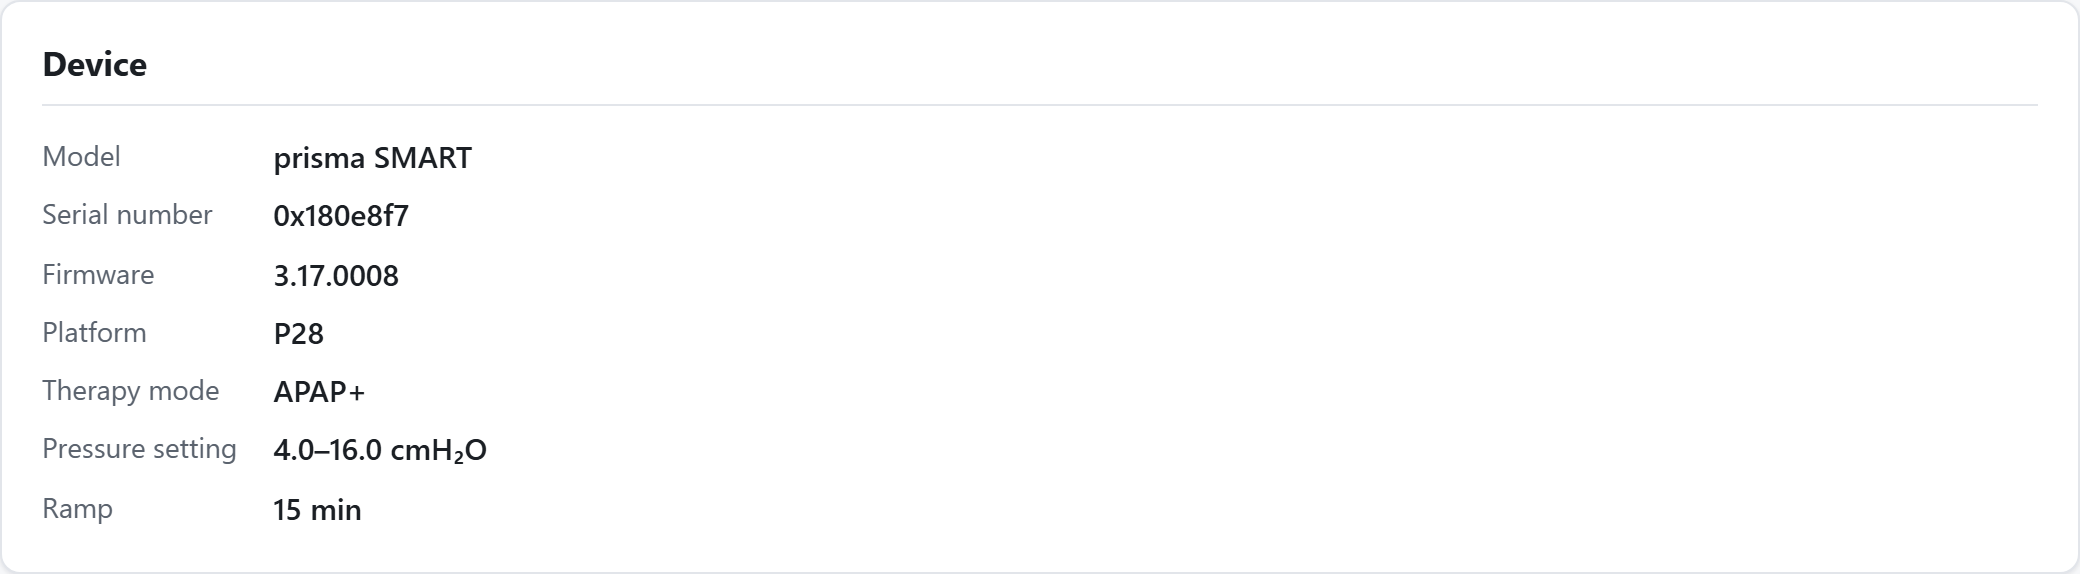
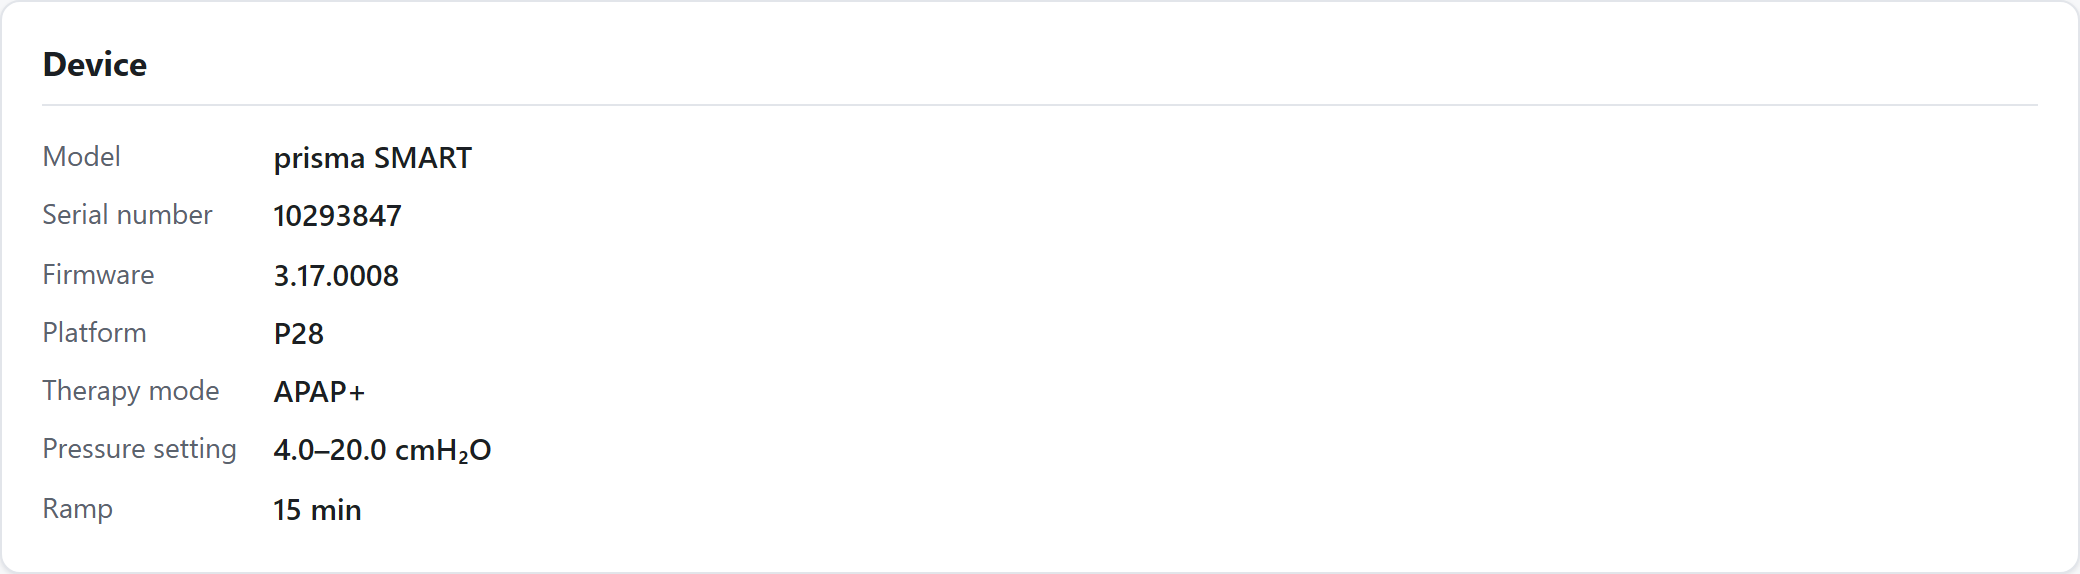
README: document Withings import and device figures; regenerate screenshots
The README predated the Withings sleep import and the device's own
figures. Correct the privacy statement, test count, file list, chart list,
psstat field map and day-boundary notes, and add a section on the
optional Withings import.

Screenshots are regenerated from a fresh synthetic card, with a new image
of the sleep charts.

diff --git a/README.md b/README.md
@@ -9,7 +9,7 @@ honest account of how every number was derived. In Hebrew and English.
 
 [![No build step](https://img.shields.io/badge/build-none-success)](#running-it)
 [![Dependencies](https://img.shields.io/badge/dependencies-0-success)](#running-it)
-[![Tests](https://img.shields.io/badge/self--tests-83%20passing-success)](#tests)
+[![Tests](https://img.shields.io/badge/self--tests-98%20passing-success)](#tests)
 [![Privacy](https://img.shields.io/badge/data-never%20leaves%20your%20device-blue)](#privacy)
 [![Languages](https://img.shields.io/badge/languages-עברית%20%7C%20English-blue)](#language)
 
@@ -27,13 +27,19 @@ Your card is read in the browser and never uploaded.
 ## What it looks like
 
 <div align="center">
-  <img src="screenshots/02-overview.png" alt="Overview panel: average AHI 6.7 in the mild band, 6.7 h average use, 100% of nights at 4 h or more, 14 nights analysed, 93 h total therapy time, RDI 9.1, and a donut breaking 771 recorded events into obstructive apnea, central apnea, hypopnea and RERA" width="900">
+  <img src="screenshots/02-overview.png" alt="Overview panel: average AHI 6.7 in the mild band, 6.2 h average use, 100% of nights at 4 h or more, 18 nights analysed, 112 h total therapy time, RDI 9.2; the device's own AHI of 7/h, P90 pressure of 10.0 cmH2O and deep-sleep indicator of 79 min; and a donut breaking 805 recorded events into obstructive apnea, central apnea, hypopnea and RERA" width="900">
 </div>
 
 Six headline figures, each colour-banded against its own benchmark, with the
-event mix beside them. Nothing here is read off the device's own display — every
+event mix beside them. None of these is read off the device's own display — every
 index is recomputed from the event records, for reasons explained in
 [How the numbers are computed](#how-the-numbers-are-computed).
+
+Beside them, three further cards show **the device's own figures** — its AHI,
+P90 pressure, share of time in high leak, and deep-sleep indicator — computed
+from `statistic.psstat` the way the manufacturer's prisma JOURNAL viewer
+computes them. They are always labelled as the device's, so a reader comparing
+against JOURNAL finds the same numbers, and can see where ours differ.
 
 ### Findings written for a person, not a technician
 
@@ -177,13 +183,30 @@ by event count. Exactly one of the first four fires.
 Rows with `—` in the Tier column are structural or arithmetic observations
 rather than threshold judgements, so they carry no provenance badge.
 
-### Five trend charts, drawn without a chart library
+### Trend charts, drawn without a chart library
 
 <div align="center">
-  <img src="screenshots/04-charts.png" alt="Five charts: AHI per night against the threshold of 5, hours of use against the 4-hour benchmark, a sleep-timing candle chart, stacked event composition, and 95th-percentile pressure" width="900">
+  <img src="screenshots/04-charts.png" alt="Seven charts: AHI per night against the threshold of 5 with the device's AHI as a tick, hours of use against the 4-hour benchmark, a sleep-timing candle chart, stacked event composition, our P95 pressure beside the device's P90, the device's deep-sleep minutes, and the device's share of time in high leak" width="900">
 </div>
 
-Every chart is hand-built inline SVG. Some details worth pointing out:
+Every chart is hand-built inline SVG:
+
+| Chart | Shows |
+|---|---|
+| AHI by night | our AHI against the threshold of 5, with a tick for the device's own AHI |
+| Hours of use by night | therapy time against the 4-hour benchmark |
+| Sleep timing by night | a candle per night — time in bed and therapy time inside it |
+| Event composition | stacked event types per night |
+| Pressure | our P95 from the event records beside the device's P90 from its histogram |
+| Deep sleep indicator *(device)* | minutes the machine estimated as deep sleep |
+| Time in high leak *(device)* | share of the night in the device's high-leak range |
+
+With [Withings sleep data](#optional-sleep-stages-from-a-withings-device)
+loaded, the usage chart gains a sleep bar per night, the timing chart gains a
+grey band for the time you were actually asleep, and the deep-sleep chart
+becomes a two-panel chart comparing the device's estimate with the watch's.
+
+Some details worth pointing out:
 
 - **Missing nights stay missing.** 30 August has no therapy, and it renders as a
   visible gap rather than two bars sliding together to hide it.
@@ -198,8 +221,13 @@ Every chart is hand-built inline SVG. Some details worth pointing out:
 ### Night by night, down to the waveform
 
 <div align="center">
-  <img src="screenshots/05-nights.png" alt="Sortable night table with one row expanded, showing the night's sessions, a decoded RespFlow waveform, an event breakdown, and the twelve recorded channels as chips" width="900">
+  <img src="screenshots/05-nights.png" alt="Night table with the device's AHI, P90 and deep-sleep columns beside ours, four summary-only nights at the top, and one row expanded to show its session, a decoded RespFlow waveform, an event breakdown, and the twelve recorded channels as chips" width="900">
 </div>
+
+The table puts the device's AHI, P90 pressure and deep-sleep minutes in columns
+beside ours. Nights the card no longer has session folders for — the device's
+daily summary keeps a longer history than its recordings — still appear, with
+usage and the device's figures but no indices of our own.
 
 Expand any night for its sessions, an event breakdown, the channels that night
 recorded, and **on-demand waveform decoding** — waveforms are never decoded
@@ -246,12 +274,13 @@ used it, and why not when it didn't. This is what makes the report honest — a
 reader can see nothing was quietly skipped:
 
 <div align="center">
-  <img src="screenshots/08-appendix.png" alt="Appendix showing a file inventory of 76 files grouped by type and marked fully, partly or not used, plus trend-curve headers, the cloud upload bundle, device logs and credits" width="900">
+  <img src="screenshots/08-appendix.png" alt="Appendix showing a file inventory of 57 files grouped by type and marked fully, partly or not used, plus trend-curve headers, the cloud upload bundle, device logs and credits" width="900">
 </div>
 
 > [!NOTE]
-> Every screenshot above is generated from **synthetic data** — a fabricated
-> fortnight written by a script, with waveforms built from sine functions. No
+> Every screenshot in this README is generated from **synthetic data** — a
+> fabricated fortnight written by a script, with waveforms built from sine
+> functions and Withings sleep stages served by a stand-in for its API. No
 > patient data appears anywhere in this repository.
 
 ---
@@ -277,21 +306,27 @@ Dragging a folder onto the page also works.
 ### Privacy
 
 **Everything runs as static JavaScript in the page.** There is no upload, no
-server, no telemetry, and no network request of any kind — the card's contents
-never leave the machine. **The app only ever reads.** Nothing is written to the
-card.
+server, and no telemetry, and the CPAP report makes no network request of any
+kind — the card's contents never leave the machine. **The app only ever reads.**
+Nothing is written to the card.
+
+The one exception is opt-in: the
+[Withings sleep import](#optional-sleep-stages-from-a-withings-device) talks to
+Withings, and only when you click *Connect Withings*. Even then, nothing from
+the card is sent — the page only downloads your sleep data from Withings.
 
 ```
 index.html            the app
 css/style.css         direction-agnostic styling (LTR + RTL)
 js/parsers.js         .wmedf / event XML / .pscfg / .psstat / .tc / .pscloud / .log readers
-js/analysis.js        sessions, nights, indices, insight engine
+js/analysis.js        sessions, nights, indices, device figures, insight engine
 js/i18n.js            Hebrew + English strings, locale formatting
 js/charts.js          inline SVG charts (no chart library)
 js/scan.js            folder walking and orchestration
+js/withings.js        optional Withings sleep-stage import (OAuth + API)
 js/app.js             UI
-js/selftest.js        83 assertions on the arithmetic that fails silently
-screenshots/     the images in this README (synthetic data)
+js/selftest.js        98 assertions on the arithmetic that fails silently
+screenshots/          the images in this README (synthetic data)
 ```
 
 ### Language
@@ -316,14 +351,17 @@ stylesheet. Numbers and dates are formatted with `Intl`.
 ## What it reports
 
 - **Overview** — average AHI with severity band, usage, nights at 4 h or more,
-  RDI, total therapy time, event-mix donut.
+  RDI, total therapy time, event-mix donut, and the device's own AHI, P90
+  pressure, high-leak share and deep-sleep indicator.
 - **Insights and action items** — 39 rules covering residual AHI,
   central-vs-obstructive balance, periodic breathing and CSR, adherence, bedtime
   regularity, late-night event clustering, mask leak and removals, snoring,
   pressure ceiling, long events, and trends over the period.
-- **Trends** — the five charts above.
-- **Night by night** — a table down to per-session detail, with on-demand
-  waveform decoding.
+- **Sleep stages** *(optional)* — Withings sleep data paired with each night;
+  see below.
+- **Trends** — the charts above.
+- **Night by night** — a table down to per-session detail, our figures beside
+  the device's, with on-demand waveform decoding.
 - **Glossary and method** — every term defined, and how each index was computed.
 - **Appendix** — a full inventory of the picked folder, trend-curve headers, the
   cloud-upload bundle and its certificate, device logs, and credits.
@@ -334,12 +372,14 @@ stylesheet. Numbers and dates are formatted with `Intl`.
 Indices are computed here from the event records, **not** read from the device's
 own summary. This is deliberate:
 
-- The device prints an AHI that uses an undisclosed formula. Independent attempts
-  to reproduce it have failed, so this app publishes its own documented
-  definition rather than pretending to match the display.
-- `statistic.psstat` fields 16/17 track hypopneas but consistently exceed the
-  event-file counts, apparently including sub-threshold events. They are parsed
-  and exposed but never used for scoring.
+- The device's AHI is built from its own event tallies in `statistic.psstat`,
+  not from the event file. Its fields 16/17 run consistently higher than the
+  event-file hypopnea counts, and the device rounds its rates to whole numbers.
+  This app publishes its own documented definition from the event records
+  instead of inheriting those tallies.
+- The device's figures are still shown, beside ours and labelled as the
+  device's, computed the way prisma JOURNAL computes them (below). They are
+  never used for scoring or by the insight engine.
 
 | Index | Definition |
 |---|---|
@@ -357,6 +397,77 @@ Severity bands (normal / mild / moderate / severe at 5 / 15 / 30) are the
 conventional **AASM diagnostic** bands. They describe untreated severity; on
 therapy the usual goal is simply "under 5". They are not an OSCAR definition —
 OSCAR publishes no severity thresholds.
+
+#### The device's own figures
+
+These follow the formulas in prisma JOURNAL's own reader, so the numbers match
+what that viewer shows. Each night uses its `statistic.psstat` row; nights under
+3 minutes of use are treated as unused, as JOURNAL does.
+
+| Figure | Definition |
+|---|---|
+| oAHI | field 16 (obstructive event tally) × 60 ÷ therapy minutes, rounded |
+| cAI | field 38 (central apneas) × 60 ÷ minutes, rounded — field 17 before firmware 3.0 |
+| high-pressure AHI | field 41 × 60 ÷ minutes, rounded — firmware 3.5 and later |
+| Device AHI | oAHI + cAI + high-pressure AHI |
+| P90 pressure | first 0.5 hPa bin of the field 21 histogram passing 90% of minutes |
+| High leak | share of therapy time in bins 14+ of the field 10 leak histogram |
+| Deep sleep | field 42, minutes, as the device reports it |
+
+Period averages are combined as JOURNAL combines them: each component index is
+averaged across nights and rounded before they are summed, and P90 and high leak
+come from the histograms summed across all nights.
+
+---
+
+## Optional: sleep stages from a Withings device
+
+The CPAP card knows when the mask was on. It does not know when you were
+asleep, or what your sleep looked like. A Withings watch or Sleep Analyzer
+knows both, and pairing the two answers questions neither can answer alone:
+
+- **Asleep vs mask-on.** The timing chart gains a grey band for the time you
+  were asleep. Where grey extends past the therapy block, you slept without the
+  mask; where the block extends past the grey, the machine ran while you were
+  awake. The usage chart puts sleep time beside therapy time.
+- **Masked vs unmasked sleep.** Per-minute sleep stages are split at each
+  session's mask-on and mask-off times. On nights where the mask came off
+  partway, the app compares **restorative sleep** (deep + REM as a share of
+  sleep) during the masked half and the unmasked half of the *same night*.
+  Only those nights appear, because a night worn throughout has nothing to
+  compare against.
+- **Device vs watch deep sleep.** When both are present, the device's
+  deep-sleep estimate and the watch's restorative share are drawn as two
+  panels on one date axis.
+
+<div align="center">
+  <img src="screenshots/11-sleep-charts.png" alt="With Withings data loaded: the usage chart with a grey watch-sleep bar beside each therapy bar; the timing chart with a grey band showing when the watch recorded sleep behind each therapy candle; and a two-panel deep-sleep chart, the device's deep-sleep minutes above and the watch's deep plus REM share below, split into with-CPAP and without-CPAP bars on nights the mask came off partway" width="900">
+</div>
+
+The comparison is framed as a prompt, not a result: the mask usually comes off
+late in the night, when sleep is naturally more REM-heavy anyway.
+
+### Setting it up
+
+Withings supports only the OAuth authorization-code flow with a client secret.
+It has no PKCE and no public-client app type, so a page with no server cannot
+complete a login without a secret. Shipping one in this repository would
+publish it to every visitor. Instead **each reader registers their own
+application**:
+
+1. Register a free application at
+   [developer.withings.com](https://developer.withings.com) and enable
+   restricted mode.
+2. Set its callback URL to the address of the page itself — the directory form,
+   e.g. `https://<user>.github.io/<repo>/`. The app shows the exact URL to
+   register under **Set up**.
+3. In the app, open **Set up**, paste the client ID and secret, and save.
+4. Click **Connect Withings** and approve access in the popup.
+
+The credentials are stored only in that browser's `localStorage` and are sent
+only to Withings. The access token is kept in memory for the import and never
+stored. Only the `user.activity` scope (sleep and activity) is requested;
+`user.info` is deliberately not, because it also grants device-link management.
 
 ---
 
@@ -400,7 +511,7 @@ unit, and labels the axis accordingly.
 node js/selftest.js
 ```
 
-**83 assertions**, all passing, covering mixed byte widths, signed byte channels,
+**98 assertions**, all passing, covering mixed byte widths, signed byte channels,
 de-interleaving, decisecond conversion, pascal conversion, event classification,
 index arithmetic, short-session exclusion, the noon-to-noon day boundary, clock
 handling across midnight, and degenerate inputs. All fixtures are built in
@@ -611,20 +722,30 @@ across all 14 nights — three fields matched on every night:
 
 | Key | Meaning | Confidence |
 |---|---|---|
-| `5` | session start, unix seconds | measured |
+| `5` | session start, device wall-clock seconds since 1970 | measured |
 | `6` | therapy minutes | measured |
 | `18` | RERA count = XML `121` | **exact, 14/14 nights** |
 | `37` | obstructive apnea = XML `101` | **exact, 14/14 nights** |
 | `38` | central apnea = XML `102` | **exact, 14/14 nights** |
-| `10` | 20-value histogram | inferred (pressure) |
-| `21` | 33-value histogram | inferred (per-hour) |
-| `16` / `17` | hypopnea counters | see below |
+| `16` / `17` | device's obstructive / central event tallies | measured + JOURNAL |
+| `10` | leak histogram, 20 bins of 2-second samples; bins 14+ are high leak | JOURNAL |
+| `21` | pressure histogram, minutes per 0.5 hPa bin from 4 hPa | JOURNAL |
+| `41` | events at high pressure (firmware 3.5+) | JOURNAL |
+| `42` | deep-sleep indicator, minutes | JOURNAL |
 | `47` / `49` / `50` | lifetime cumulative counters | inferred |
 
-**Measured:** fields `16`/`17` correlate with hypopneas but are consistently
-**higher** than the XML `111`/`112` counts on every night — apparently including
-sub-threshold events the event file omits. They are exposed but never used for
-scoring.
+"JOURNAL" means the reading follows the manufacturer's prisma JOURNAL web
+viewer's own reader of this file.
+
+**Measured:** field `5` is not true unix time. Read as UTC, it reproduces the
+EDF header's local start time exactly (`07.09.26 22.57.56` ↔ 22:57) — it counts
+the device's own wall clock, which has no timezone.
+
+**Measured:** fields `16`/`17` are consistently **higher** than the XML
+`111`/`112` hypopnea counts on every night. They are the device's own event
+tallies behind its oAHI and (before firmware 3.0) its cAHI, and include events
+the event file does not record as hypopneas. They feed the device's figures
+shown beside ours, never our own scoring.
 
 This also corrects a published field map that assigns `16`→OA, `17`→OH, `18`→CA,
 `19`→CH, `38`→RERA. That mapping does not hold on this firmware; the measured one
@@ -645,8 +766,13 @@ calendar day.
 The folder name therefore already *is* the night — trust it, and never re-derive
 the night from a session timestamp. When indexing `statistic.psstat` rows (which
 carry timestamps, not folder names) against nights, subtract 12 hours first, then
-take the local calendar date. This shift correctly paired every stat row to its
-folder across all 14 nights.
+take the calendar date. This shift correctly paired every stat row to its folder
+across all 14 nights.
+
+`statistic.psstat` keeps a longer daily history than the session folders, so
+some rows have no folder at all. Those nights are dated by the same shifted
+timestamp — the one case where the night does come from a timestamp — and
+appear with usage and the device's figures but no event-based indices.
 
 ### Not decoded
 
